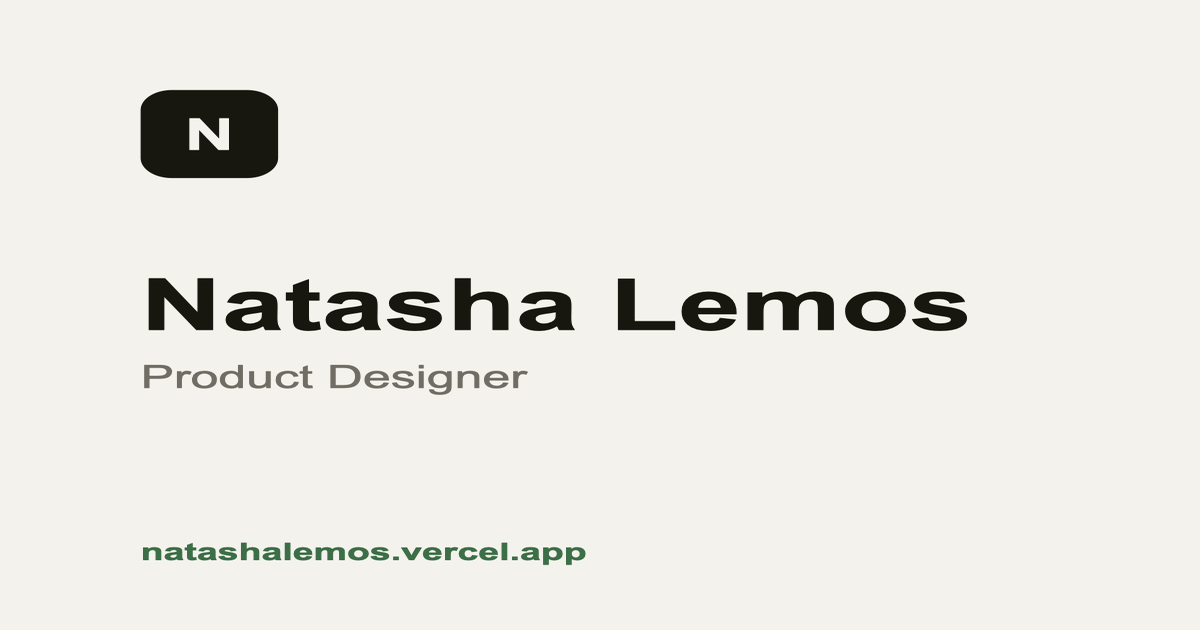
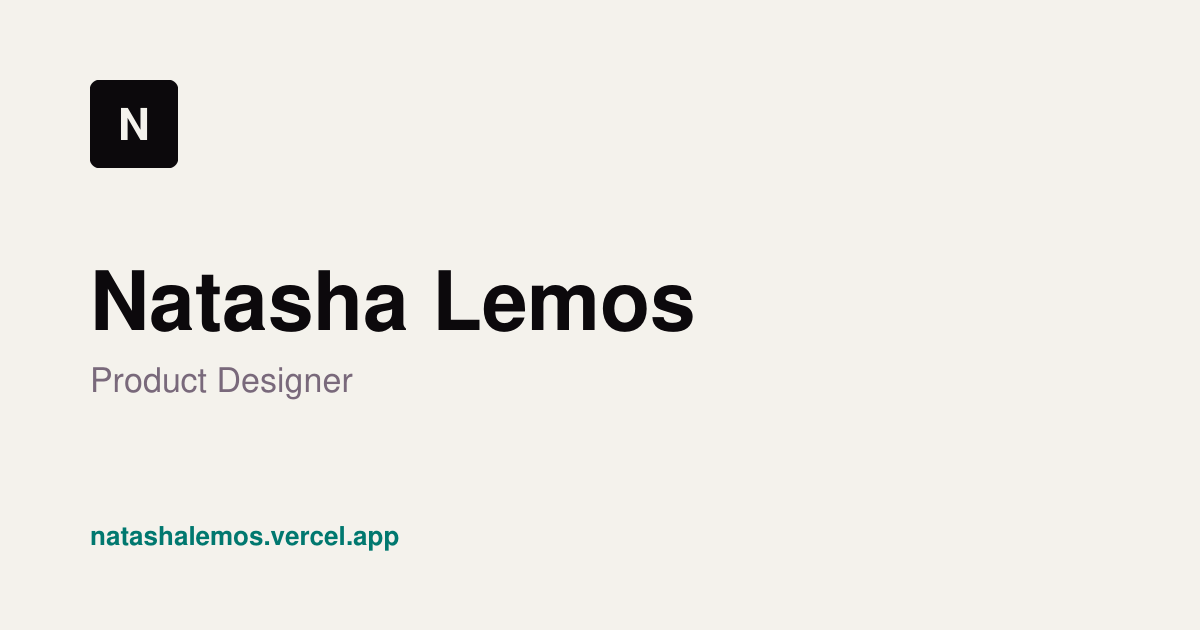
Corrige distorção da imagem de capa e atualiza cores para o tema atual

diff --git a/index.html b/index.html
@@ -10,7 +10,7 @@
   <meta property="og:url" content="https://natashalemos.vercel.app/" />
   <meta property="og:title" content="Natasha Lemos · Product Designer" />
   <meta property="og:description" content="Natasha Lemos, Product Designer — discovery, jornadas omnichannel e experiência do usuário em produtos digitais B2C." />
-  <meta property="og:image" content="https://natashalemos.vercel.app/assets/og-image.png" />
+  <meta property="og:image" content="https://natashalemos.vercel.app/assets/og-image.png?v=2" />
   <meta property="og:image:width" content="1200" />
   <meta property="og:image:height" content="630" />
   <meta name="twitter:card" content="summary_large_image" />

diff --git a/projetos/favoritos-zee-now.html b/projetos/favoritos-zee-now.html
@@ -10,7 +10,7 @@
   <meta property="og:url" content="https://natashalemos.vercel.app/projetos/favoritos-zee-now.html" />
   <meta property="og:title" content="Favoritos · Zee.Now · Natasha Lemos" />
   <meta property="og:description" content="Organização e rapidez para facilitar a recompra de itens recorrentes na Zee.Now." />
-  <meta property="og:image" content="https://natashalemos.vercel.app/assets/og-image.png" />
+  <meta property="og:image" content="https://natashalemos.vercel.app/assets/og-image.png?v=2" />
   <meta property="og:image:width" content="1200" />
   <meta property="og:image:height" content="630" />
   <meta name="twitter:card" content="summary_large_image" />

diff --git a/projetos/vitrines-cards-vivo.html b/projetos/vitrines-cards-vivo.html
@@ -10,7 +10,7 @@
   <meta property="og:url" content="https://natashalemos.vercel.app/projetos/vitrines-cards-vivo.html" />
   <meta property="og:title" content="Vitrines e Cards · Vivo · Natasha Lemos" />
   <meta property="og:description" content="Clareza e simplicidade para apoiar a decisão de escolha de planos na Vivo." />
-  <meta property="og:image" content="https://natashalemos.vercel.app/assets/og-image.png" />
+  <meta property="og:image" content="https://natashalemos.vercel.app/assets/og-image.png?v=2" />
   <meta property="og:image:width" content="1200" />
   <meta property="og:image:height" content="630" />
   <meta name="twitter:card" content="summary_large_image" />

diff --git a/projetos/projeto-exemplo.html b/projetos/projeto-exemplo.html
@@ -11,7 +11,7 @@
   <meta property="og:url" content="https://natashalemos.vercel.app/projetos/projeto-exemplo.html" />
   <meta property="og:title" content="[Nome do Projeto] · Natasha Lemos" />
   <meta property="og:description" content="[Uma frase resumindo o desafio e o impacto do projeto.]" />
-  <meta property="og:image" content="https://natashalemos.vercel.app/assets/og-image.png" />
+  <meta property="og:image" content="https://natashalemos.vercel.app/assets/og-image.png?v=2" />
   <meta property="og:image:width" content="1200" />
   <meta property="og:image:height" content="630" />
   <meta name="twitter:card" content="summary_large_image" />
